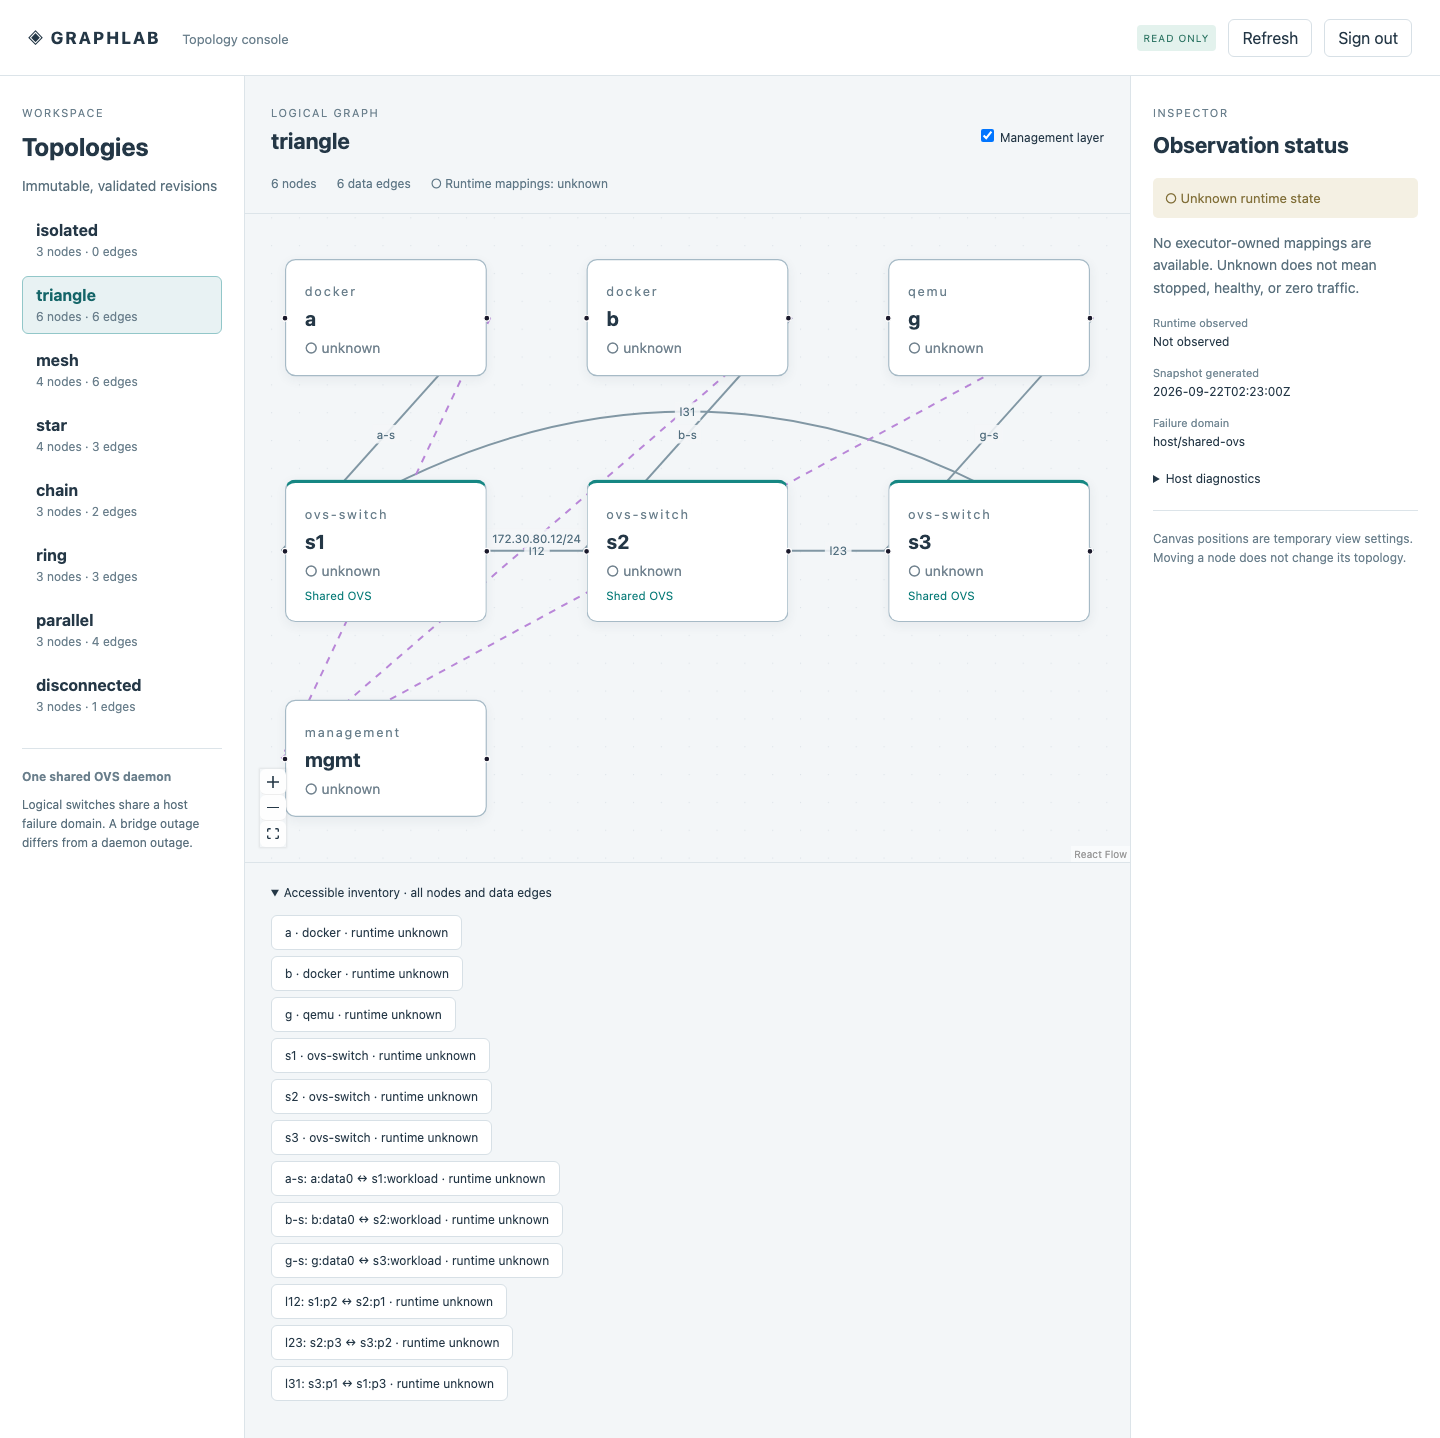
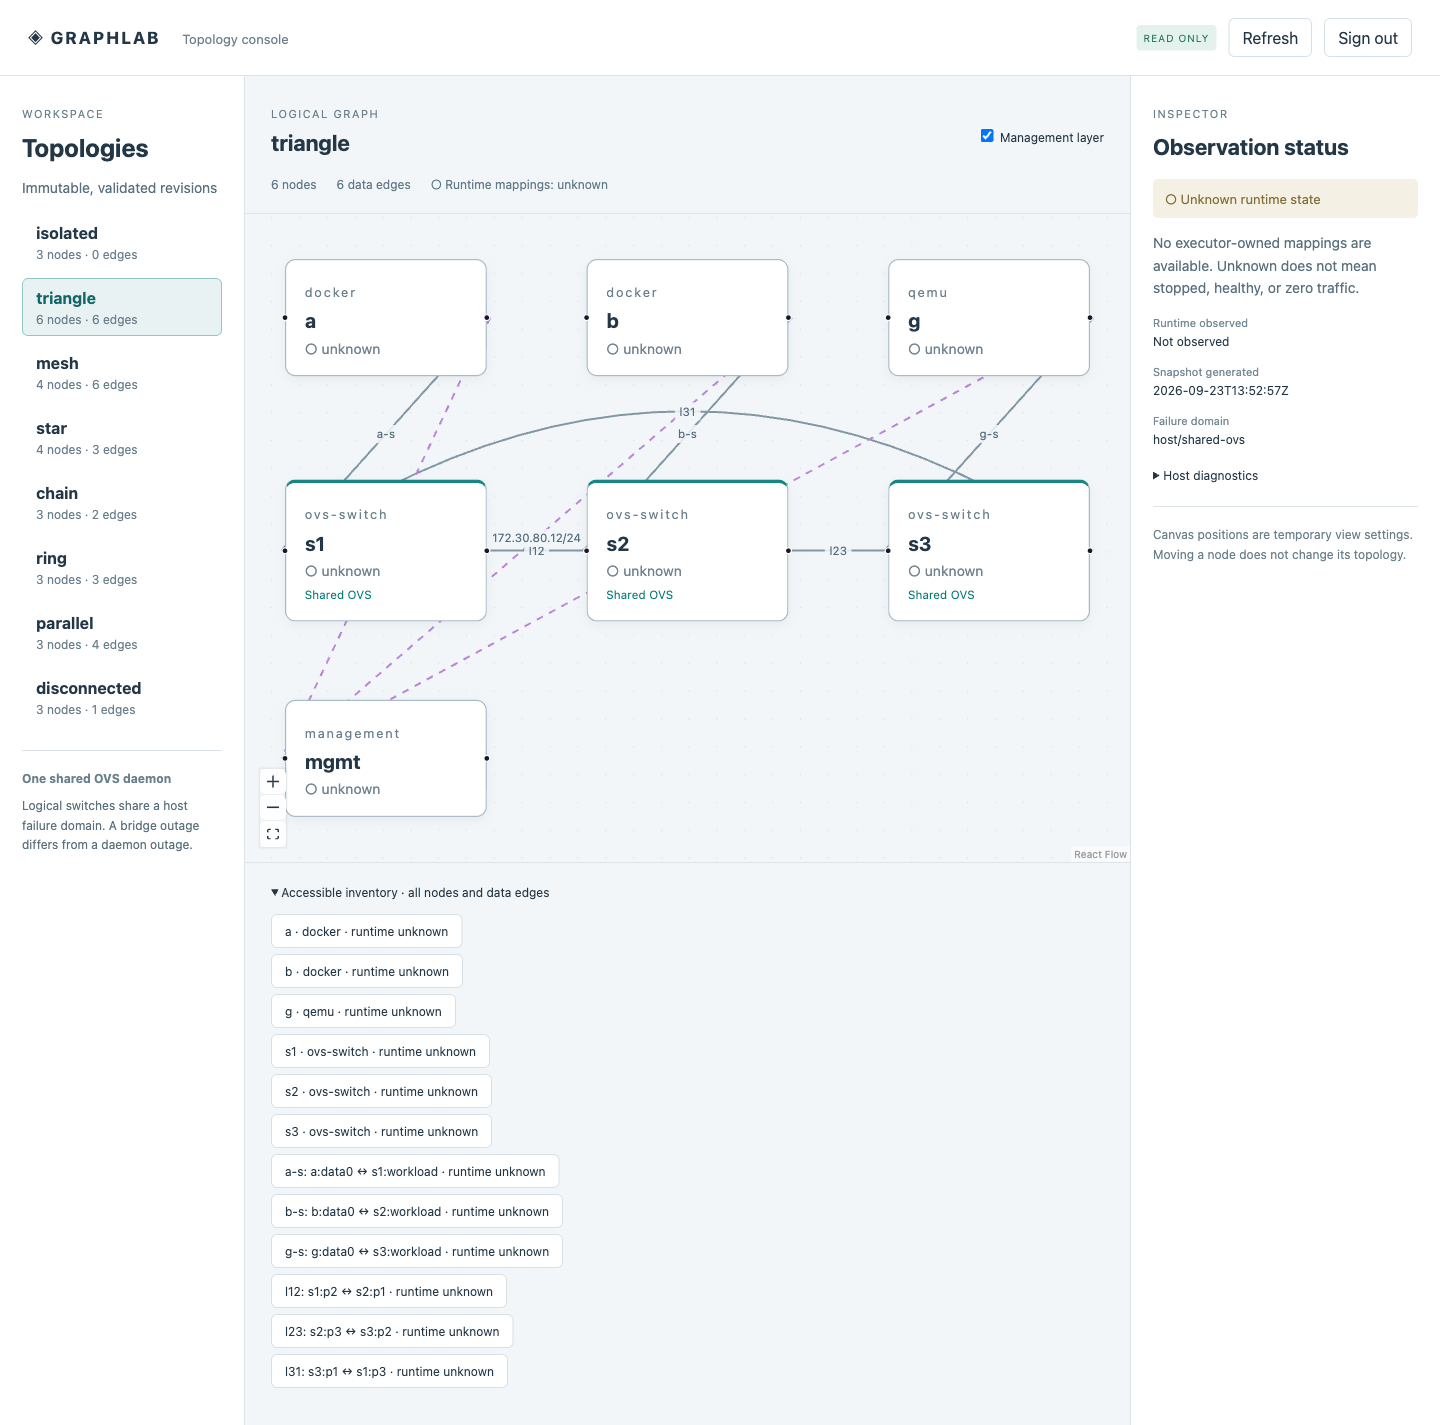
web console update

diff --git a/README.md b/README.md
@@ -2,8 +2,6 @@
 
 M0 implements a C++23 topology validator and deterministic dry-run planner. M1 adds a C++23 read-only agent/API and an authenticated React topology console. Neither milestone starts Docker containers, QEMU guests or OVS bridges.
 
-See [M1 console setup and invocation](docs/m1-console.md) for build, login, service startup and browser instructions.
-
 M2 adds opt-in durable Linux execution, Docker/shared-OVS resources, run/job controls and shared C++ gated nodes. See [M2 setup and qualification limits](docs/m2-executor.md). The original agent invocation remains read-only; execution requires explicit state/peer configuration.
 
 M3 adds capture-first runs, independent C++ PCAPNG workers, renewable traffic leases and verified artifact downloads. See [M3 setup and behavior](docs/m3-captures.md) and [verification evidence](docs/validation/m3-verification.md). No-capture development topologies still require explicit acknowledgement.
@@ -23,6 +21,52 @@ ctest --preset dev
 ```
 
 On Linux with GCC 14 installed, use the `linux-gcc14` configure/build/test preset instead. Other toolchains must pass the feature probe and tests. On macOS, OpenSSL installed under a nonstandard prefix can be selected using `-DOPENSSL_ROOT_DIR=/path/to/openssl` when configuring.
+
+## Web console
+
+Install the exact frontend and Playwright versions from the lockfile, install the matching Chromium build, and build the current console:
+
+```sh
+npm ci --prefix console/web
+npx --prefix console/web playwright install chromium
+npm run build --prefix console/web
+```
+
+Create a private runtime directory and operator credential from the repository root:
+
+```sh
+mkdir -m 700 build/m1-runtime
+build/dev/lab-api init-auth build/m1-runtime/auth.json
+```
+
+The command prints the credential once. Start the read-only agent in one terminal:
+
+```sh
+build/dev/lab-agent \
+  --socket "$PWD/build/m1-runtime/agent.sock" \
+  --topologies "$PWD/topologies" \
+  --lock "$PWD/topologies/artifacts.lock.json"
+```
+
+Start the API and static console in another terminal:
+
+```sh
+build/dev/lab-api \
+  --socket "$PWD/build/m1-runtime/agent.sock" \
+  --auth "$PWD/build/m1-runtime/auth.json" \
+  --assets "$PWD/console/web/dist" \
+  --port 8088
+```
+
+Open [http://127.0.0.1:8088](http://127.0.0.1:8088) and sign in with the generated credential. Use `127.0.0.1`, not `localhost`, because the API validates the browser authority. This profile is read-only; Linux execution and later runtime features require the milestone-specific agent configuration described in [M2 setup](docs/m2-executor.md), [M3 captures](docs/m3-captures.md), and [M4 QEMU consoles](docs/m4-qemu-consoles.md). See [M1 console setup and invocation](docs/m1-console.md) for deployment and security details.
+
+To exercise the real agent, API, and console in a browser that remains visible while the test harness drives it, run:
+
+```sh
+npm run test:headed --prefix console/web -- tests/console.spec.ts
+```
+
+The harness uses port 18088, creates a temporary credential, opens Chromium, tests the console, and cleans up its child services and private data. A graphical desktop session is required. The regular `npm test --prefix console/web` command remains headless for automation.
 
 ## Invoke M0
 
